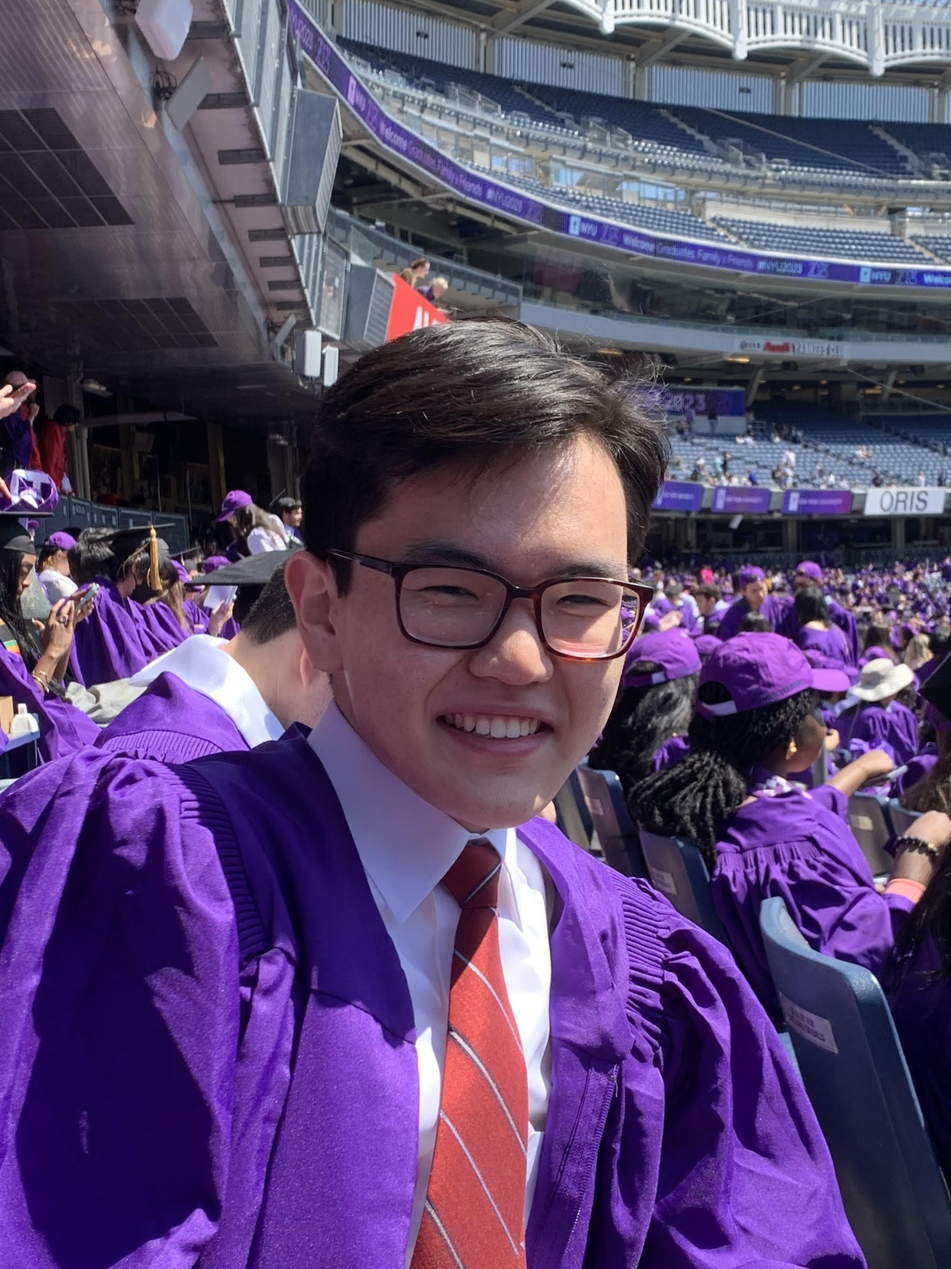
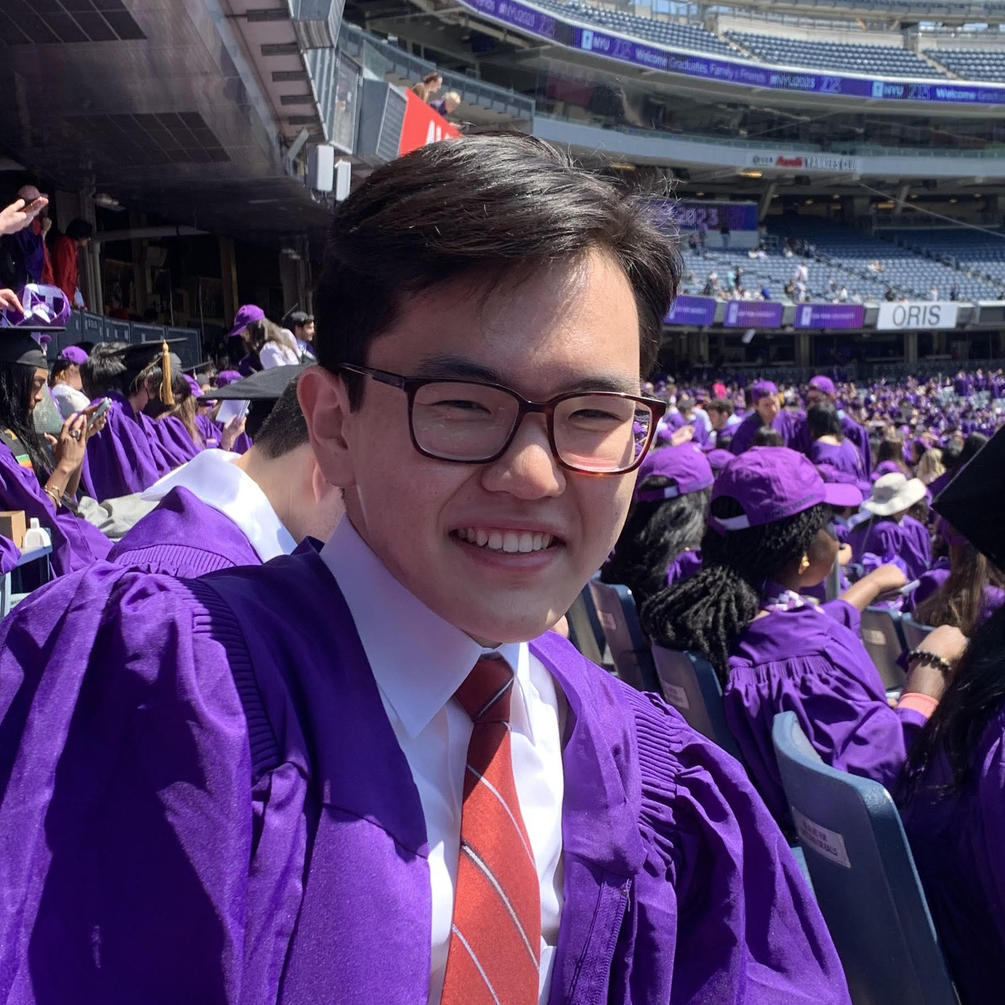
update

diff --git a/_news/announcement_2.md b/_news/announcement_2.md
@@ -1,33 +1,7 @@
 ---
 layout: post
-title: A long announcement with details
-date: 2015-11-07 16:11:00-0400
+date: 2025-05-19
 inline: false
 related_posts: false
 ---
-
-Announcements and news can be much longer than just quick inline posts. In fact, they can have all the features available for the standard blog posts. See below.
-
----
-
-Jean shorts raw denim Vice normcore, art party High Life PBR skateboard stumptown vinyl kitsch. Four loko meh 8-bit, tousled banh mi tilde forage Schlitz dreamcatcher twee 3 wolf moon. Chambray asymmetrical paleo salvia, sartorial umami four loko master cleanse drinking vinegar brunch. <a href="https://www.pinterest.com">Pinterest</a> DIY authentic Schlitz, hoodie Intelligentsia butcher trust fund brunch shabby chic Kickstarter forage flexitarian. Direct trade <a href="https://en.wikipedia.org/wiki/Cold-pressed_juice">cold-pressed</a> meggings stumptown plaid, pop-up taxidermy. Hoodie XOXO fingerstache scenester Echo Park. Plaid ugh Wes Anderson, freegan pug selvage fanny pack leggings pickled food truck DIY irony Banksy.
-
-#### Hipster list
-
-<ul>
-    <li>brunch</li>
-    <li>fixie</li>
-    <li>raybans</li>
-    <li>messenger bag</li>
-</ul>
-
-Hoodie Thundercats retro, tote bag 8-bit Godard craft beer gastropub. Truffaut Tumblr taxidermy, raw denim Kickstarter sartorial dreamcatcher. Quinoa chambray slow-carb salvia readymade, bicycle rights 90's yr typewriter selfies letterpress cardigan vegan.
-
----
-
-Pug heirloom High Life vinyl swag, single-origin coffee four dollar toast taxidermy reprehenderit fap distillery master cleanse locavore. Est anim sapiente leggings Brooklyn ea. Thundercats locavore excepteur veniam eiusmod. Raw denim Truffaut Schlitz, migas sapiente Portland VHS twee Bushwick Marfa typewriter retro id keytar.
-
-> We do not grow absolutely, chronologically. We grow sometimes in one dimension, and not in another, unevenly. We grow partially. We are relative. We are mature in one realm, childish in another.
-> —Anais Nin
-
-Fap aliqua qui, scenester pug Echo Park polaroid irony shabby chic ex cardigan church-key Odd Future accusamus. Blog stumptown sartorial squid, gastropub duis aesthetic Truffaut vero. Pinterest tilde twee, odio mumblecore jean shorts lumbersexual.
+Joined GRAIL Lab under Prof. [Lerrel Pinto](https://www.lerrelpinto.com/) and [Kathy Zhou](https://gaoyuezhou.github.io/)

diff --git a/_pages/about.md b/_pages/about.md
@@ -12,7 +12,7 @@ profile:
 
 news: true
 selected_papers: false # includes a list of papers marked as "selected={true}"
-social: false # includes social icons at the bottom of the page
+social: true # includes social icons at the bottom of the page
 ---
 
 Hello there! I am a recent Mathematics MS graduate from [NYU Courant](https://math.nyu.edu/dynamic/) currently doing research with Profs. [Lerrel Pinto](https://www.lerrelpinto.com/), [Amine Aboussalah](https://quantumgeometricintelligence.com/people/amine-mohamed-aboussalah), and most recently [Ben Riviere](https://sites.google.com/view/riviere-robot-lab/home?authuser=0).

diff --git a/_news/announcement_3.md b/_news/announcement_3.md
@@ -1,8 +1,8 @@
 ---
 layout: post
-date: 2016-01-15 07:59:00-0400
+date: 2025-09-05
 inline: true
 related_posts: false
 ---
 
-A simple inline announcement with Markdown emoji! :sparkles: :smile:
+Presented [Partial Optimal Transport](https://isprs-annals.copernicus.org/articles/X-4-W6-2025/41/2025/) at the [20th 3D GeoInfo & 9th SDSC Conference](https://www.csis.u-tokyo.ac.jp/3d_geoinfo_sdsc_2025/overview.html) in Japan.

diff --git a/_news/announcement_1.md b/_news/announcement_1.md
@@ -1,8 +1,8 @@
 ---
 layout: post
-date: 2015-10-22 15:59:00-0400
+date: 2025-05-17
 inline: true
 related_posts: false
 ---
 
-A simple inline announcement.
+Graduated *MS in Mathematics* from NYU Courant 🎓

diff --git a/_pages/news.md b/_pages/news.md
@@ -1,6 +1,6 @@
 ---
 layout: page
-title: news
+title: News
 permalink: /news/
 ---
 
